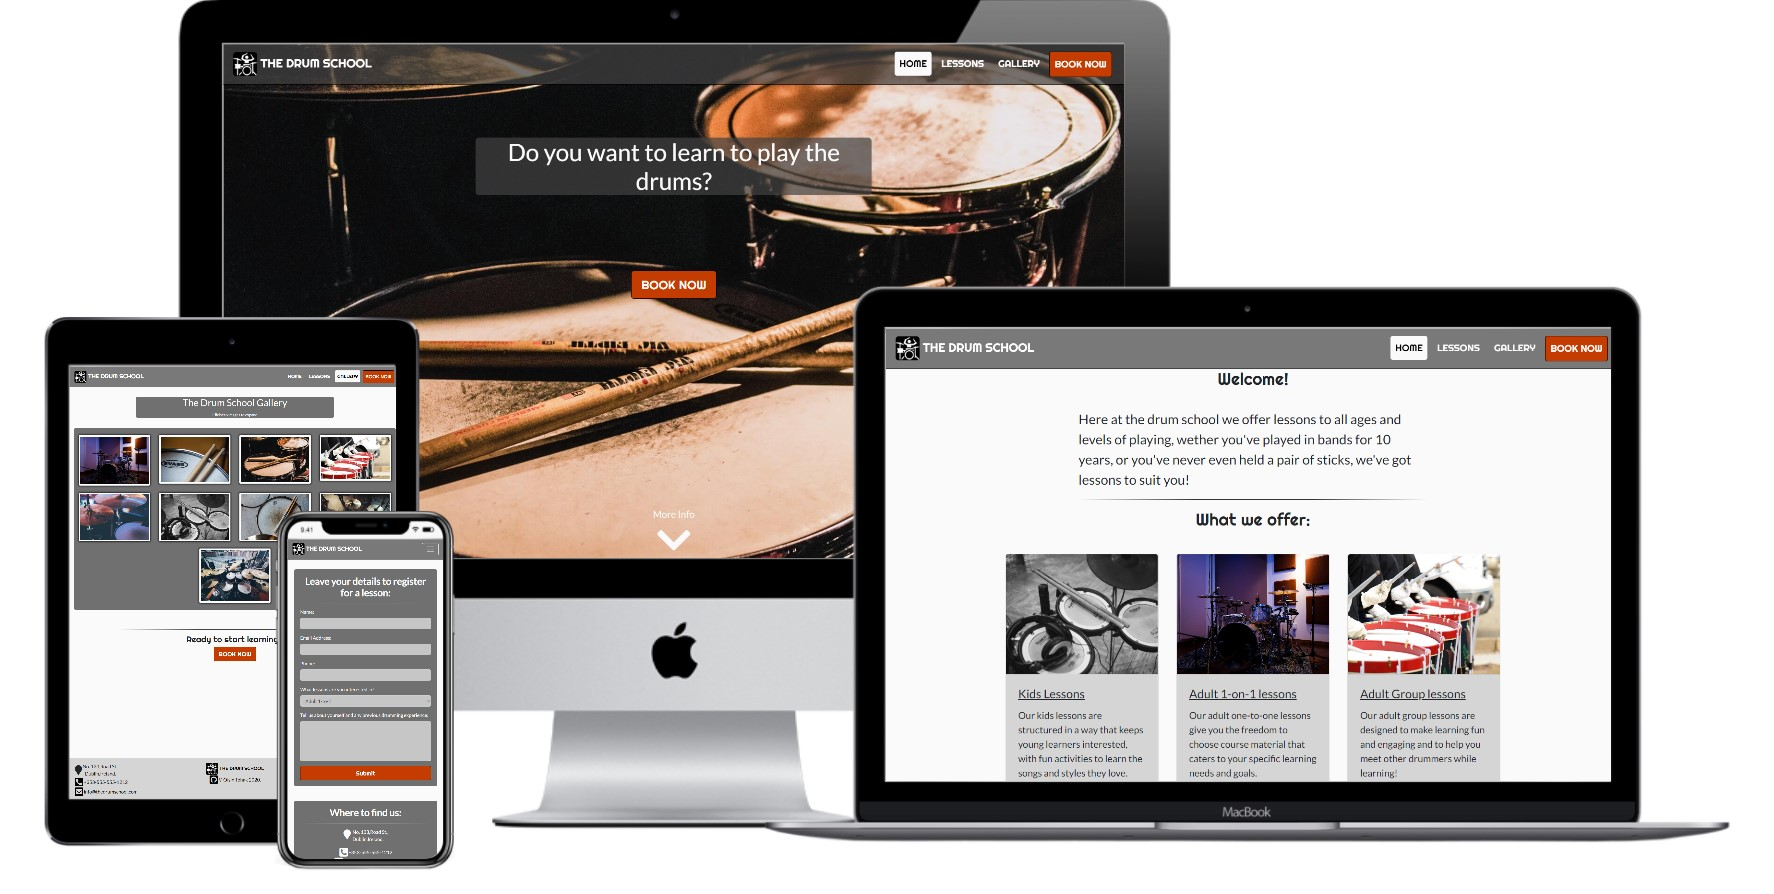
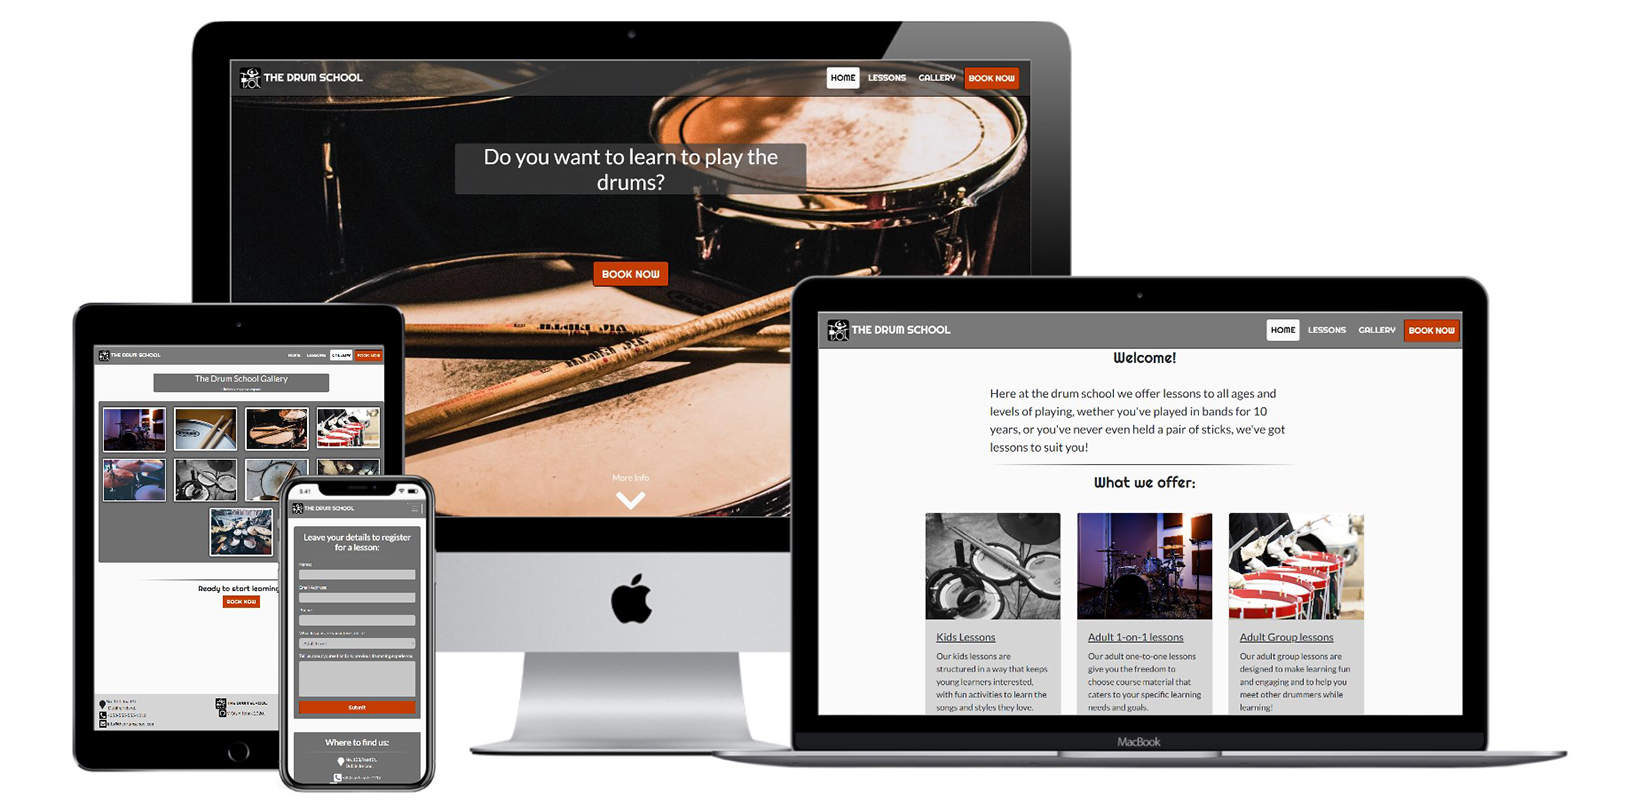
add skills section to about page

diff --git a/src/components/About.js b/src/components/About.js
@@ -1,9 +1,12 @@
 import { motion } from "framer-motion";
 import { Helmet } from "react-helmet";
+import { NavLink } from 'react-router-dom';
 import { IconContext } from "react-icons";
 import { FaFileDownload, FaGithub, FaLinkedin } from "react-icons/fa";
+import { SiHtml5, SiCss3, SiBootstrap, SiJavascript, SiReact, SiPython, SiFlask } from "react-icons/si";
 import Navbar from './NavBar';
 import Loader from './Loader';
+import SkillsIcon from './SkillsIcon';
 import CV from '../Oisin_Tohak_CV.pdf';
 // import USER from '../images/USER.png';
 import PROFILE_PICTURE from '../images/PROFILE_PICTURE.jpg'
@@ -120,8 +123,28 @@ export default function About({ isFirstMount }) {
         },
     };
 
+    const skills = {
+        initial: {
+            opacity: 0,
+        },
+        animate: {
+            opacity: 1,
+            transition: {
+                delay: 1.5,
+                duration: 0.4,
+            },
+        },
+        exit: {
+            opacity: 0,
+            y: -20,
+            transition: {
+                duration: 0.2,
+            },
+        },
+    };
+
     return (
-        // content wrapped to separate from footer
+        // content wrapped with <div> to push footer to bottom of page
 
         <div>
             <Helmet>
@@ -130,35 +153,53 @@ export default function About({ isFirstMount }) {
             <IconContext.Provider value={{ style: { verticalAlign: 'middle' }, size: "2em", className: "react-icons" }}>
                 {isFirstMount && <Loader />}
                 <Navbar />
-                <div >
-                    <div className="container h-100">
-                        <motion.div className="row align-items-center pt-4" initial="initial" animate="animate" exit="exit" variants={container} >
+                <div>
+                    <motion.div className="container h-100" initial="initial" animate="animate" exit="exit" variants={container}>
+                        <div className="row align-items-center justify-content-center  pt-4">
                             <div className="col-auto">
                                 <motion.div className="d-inline-block profile-picture" variants={picture}>
                                     <img src={PROFILE_PICTURE} alt="portrait of person" />
                                 </motion.div>
                                 <motion.div className="pt-2 d-flex justify-content-between align-items-center" initial="initial" animate="animate" exit="exit" variants={links}>
 
-                                    <motion.div variants={link} className="social-link">
-                                        <a className="text-white" href="https://www.linkedin.com/in/oisintohak/" target="_blank" rel="noopener noreferrer"><FaLinkedin /></a>
+                                    <a className="text-white" href="https://www.linkedin.com/in/oisintohak/" target="_blank" rel="noopener noreferrer">
+                                        <motion.div variants={link} className="circle-icon profile-link">
+                                            <FaLinkedin />
+                                        </motion.div>
+                                    </a>
+                                    <a className="text-white" href="https://github.com/oisintohak" target="_blank" rel="noopener noreferrer">
+                                        <motion.div variants={link} className="circle-icon profile-link">
+                                            <FaGithub />
+                                        </motion.div>
+                                    </a>
+                                    <a className="text-white" href={CV} target="_blank" rel="noopener noreferrer" download="Oisin_Tohak_CV">
+                                        <motion.div variants={link} className="py-1 px-2 border border-3 border-white d-inline-block rounded-pill download-link profile-link">
+                                            <FaFileDownload />CV
                                     </motion.div>
-                                    <motion.div variants={link} className="social-link">
-                                        <a className="text-white" href="https://github.com/oisintohak" target="_blank" rel="noopener noreferrer"><FaGithub /></a>
-                                    </motion.div>
-                                    <motion.div variants={link} className="py-1 px-2 border border-3 border-white d-inline-block rounded-pill download-link">
-                                        <a className="text-white" href={CV} target="_blank" rel="noopener noreferrer" download="Oisin_Tohak_CV"><FaFileDownload />CV</a>
-                                    </motion.div>
+                                    </a>
                                 </motion.div>
                             </div>
 
-                            <div className="col-auto col-lg-6 py-4 me-auto text-white">
+                            <div className="col-auto col-md-6 py-4  text-white">
                                 <motion.p variants={text}>
-                                    Hi, I'm <motion.span variants={highlight} className="fs-4 fw-bold text-orange">Oisín Tohak</motion.span>, a <motion.span variants={highlight} className="fs-4 fw-bold text-orange">Full Stack Web Developer</motion.span> with a passion for music and travel. I'm currently completing a Diploma in Software Development at Code Institute.
+                                    Hi, I'm <motion.span variants={highlight} className="fs-4 fw-bold text-orange">Oisín Tohak</motion.span>, a <motion.span variants={highlight} className="fs-4 fw-bold text-orange">Full Stack Web Developer</motion.span> with a passion for music and travel. I'm currently completing a Diploma in Software Development at Code Institute. You can see my projects <NavLink className="text-orange" to="/projects">here.</NavLink>
                                 </motion.p>
                             </div>
 
+                        </div>
+                        <motion.div  className="row justify-content-center py-4 text-white" variants={skills}>
+                            <h3 className="text-center py-2 text-decoration-underline">Skills</h3>
+                            <h3 className="text-center">Frontend:</h3>
+                            <SkillsIcon IconName={SiHtml5} text="HTML 5" />
+                            <SkillsIcon IconName={SiCss3} text="CSS 3" />
+                            <SkillsIcon IconName={SiBootstrap} text="Bootstrap" />
+                            <SkillsIcon IconName={SiJavascript} text="JavaScript" />
+                            <SkillsIcon IconName={SiReact} text="React" />
+                            <h3 className="text-center pt-2">Backend:</h3>
+                            <SkillsIcon IconName={SiPython} text="Python" />
+                            <SkillsIcon IconName={SiFlask} text="Flask" />
                         </motion.div>
-                    </div>
+                    </motion.div>
                 </div>
             </IconContext.Provider>
         </div>

diff --git a/src/components/Contact.js b/src/components/Contact.js
@@ -63,7 +63,7 @@ const Contact = () => {
             <motion.div initial="initial" animate="animate" exit="exit" variants={container} className="container">
                 <motion.div variants={items} className="row justify-content-center align-items-center pt-4">
                     <div className="col-lg-8 col-xl-6 col-xxl-5">
-                        <p className="text-white">To get in touch just send an email to <a className="text-orange" href="mailto:mail@oisintohak.com">mail@oisintohak.com</a>, reach out to me on <a className="text-orange" href="https://www.linkedin.com/in/oisintohak/" target="_blank" rel="noopener noreferrer"><FaLinkedin /> LinkedIn</a>, or just leave a message below:</p>
+                        <p className="text-white">To get in touch send an email to <a className="text-orange" href="mailto:mail@oisintohak.com">mail@oisintohak.com</a>, reach out to me on <a className="text-orange" href="https://www.linkedin.com/in/oisintohak/" target="_blank" rel="noopener noreferrer"><FaLinkedin />LinkedIn</a>, or just leave a message below:</p>
                     </div>
                 </motion.div>
                 <motion.div variants={items} className="row justify-content-center align-items-center py-4">

diff --git a/src/index.css b/src/index.css
@@ -158,7 +158,7 @@ body {
   object-fit: cover;
 }
 
-.social-link {
+.circle-icon {
   width: 3em;
   height: 3em;
   border: white 3px solid;
@@ -168,13 +168,22 @@ body {
   align-items: center;
 }
 
-.download-link * {
+.profile-link {
   text-decoration: none;
+  transition-duration: 0.2s;
 }
 
-.download-link:hover, .download-link a:hover, .download-link svg:hover, .social-link:hover, .social-link a:hover, .social-link svg:hover {
+.profile-link:hover {
   color: var(--primary-orange-color) !important;
   border-color: var(--primary-orange-color) !important;
+}
+
+.skills-icon {
+  width: 6em;
+}
+
+.skills-icon .circle-icon {
+  padding: 0.6em;
 }
 
 /* PROJECTS */
@@ -214,6 +223,9 @@ body {
   }
 }
 
+a.text-orange:hover {
+  color: #EDB766;
+}
 
 .form-control:focus {
   border-color: var(--primary-orange-color);

diff --git a/src/components/NavBar.js b/src/components/NavBar.js
@@ -10,7 +10,7 @@ const Navbar = () => {
                     <ul className="navbar-nav 
                      justify-content-center">
                         <li className="nav-item px-2 text-uppercase">
-                            <NavLink className="nav-link " activeClassName="active" to="/" exact>Home</NavLink>
+                            <NavLink className="nav-link " activeClassName="active" to="/" exact>About</NavLink>
                         </li>
                         <li className="nav-item border-start border-end px-2 text-uppercase">
                             <NavLink className="nav-link " activeClassName="active" to="/projects">Projects</NavLink>

diff --git a/src/components/Footer.js b/src/components/Footer.js
@@ -3,9 +3,9 @@ import React from 'react'
 const Footer = () => {
     return (
         <footer className="footer bg-grey">
-            <div className="container">
-                <div className="row">
-                    <div className="col">
+            <div className="container-fluid">
+                <div className="row justify-content-center">
+                    <div className="col-auto">
                         <small>© Oisin Tohak 2021.</small>
                     </div>
                 </div>

diff --git a/src/components/SkillsIcon.js b/src/components/SkillsIcon.js
@@ -1,0 +1,12 @@
+const SkillsIcon = ({ IconName, text }) => {
+    return (
+        <div className="col-auto p-2 text-center skills-icon">
+            <span className="circle-icon fs-5">
+                <IconName />
+            </span> <br />
+            <small>{text}</small>
+        </div>
+    );
+};
+
+export default SkillsIcon;
